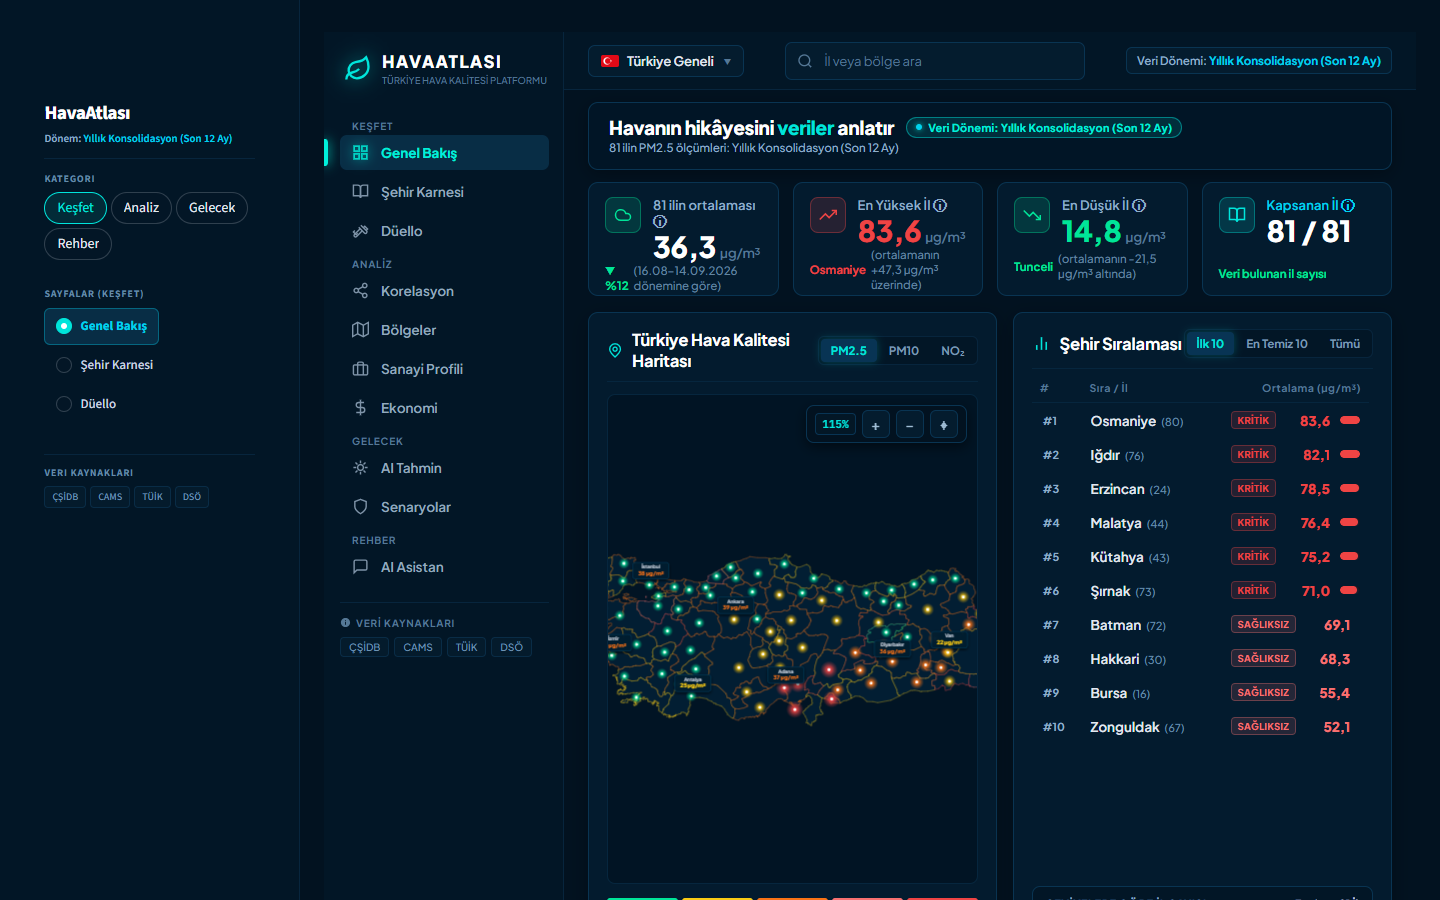
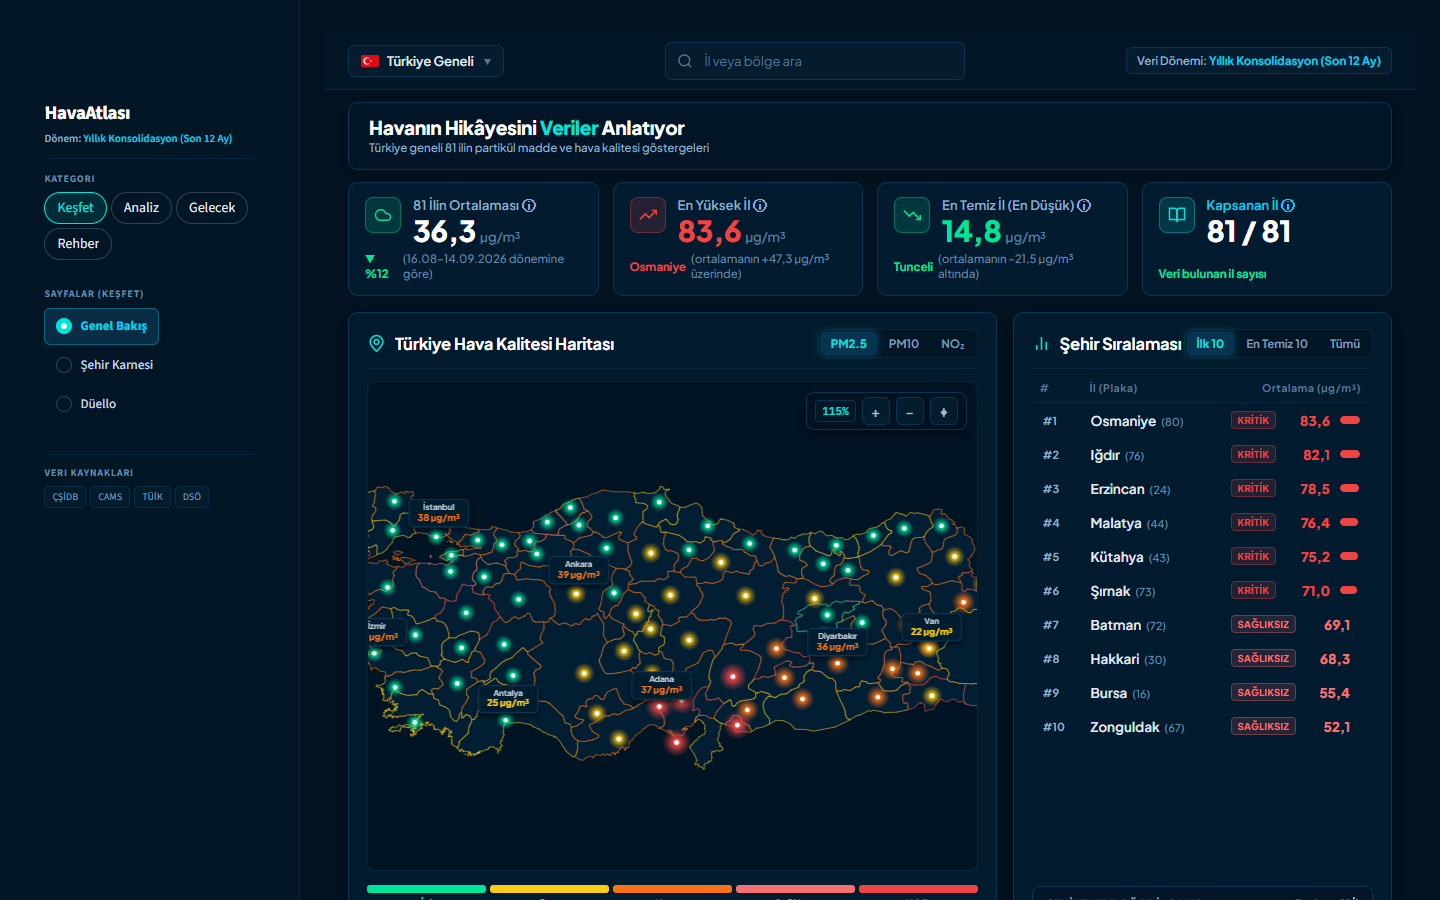
fix(duel): resolve dumbbell chart overlaps, sync summary delta, and format osb diff
- Move dumbbell chart legend to top-right to prevent x-axis title collision
- Add dynamic text positioning for closely clustered dumbbell percentile markers
- Calculate PM2.5 summary delta from displayed rounded figures for visual consistency (0,9 µg/m³)
- Format total OSB difference as integer with 'Adet' unit (+6 Adet)
- Update duel page test assertions and verification fixtures

diff --git a/app_pages/duel.py b/app_pages/duel.py
@@ -127,27 +127,30 @@ def render_duel_page(df: pd.DataFrame):
     ha_b_str = to_tr_num(ha_b, 1)
 
     # Yardımcı Fark Çipi Fonksiyonu (kazandı/kaybetti ifadesi ASLA kullanılmaz)
-    def format_diff_chip(val_1: float, val_2: float, unit_s: str, name_1: str, name_2: str) -> str:
-        diff_val = val_1 - val_2
-        denom_val = max(val_1, val_2)
+    def format_diff_chip(val_1: float, val_2: float, unit_s: str, name_1: str, name_2: str, decimals: int = 1) -> str:
+        dec_fmt = "1" if decimals == 0 else f"0.{'0'*(decimals-1)}1"
+        v1_disp = float(Decimal(f"{float(val_1):.4f}").quantize(Decimal(dec_fmt), rounding=ROUND_HALF_UP))
+        v2_disp = float(Decimal(f"{float(val_2):.4f}").quantize(Decimal(dec_fmt), rounding=ROUND_HALF_UP))
+        diff_val = round(v1_disp - v2_disp, decimals) if decimals > 0 else (v1_disp - v2_disp)
+        denom_val = max(v1_disp, v2_disp)
         pct_rel = (abs(diff_val) / denom_val * 100.0) if denom_val > 0 else 0.0
 
         if pct_rel < 5.0:
             pct_s = to_tr_num(pct_rel, 1)
             return f"<span style='background:#1e293b; color:#94a3b8; padding:3px 8px; border-radius:6px; font-size:12px; font-weight:600;'>≈ Benzer (%{pct_s})</span>"
 
-        diff_abs_s = to_tr_num(abs(diff_val), 1)
+        diff_abs_s = to_tr_num(abs(diff_val), decimals)
         pct_s = to_tr_num(pct_rel, 1)
         if diff_val > 0:
             return f"<span style='background:rgba(56, 189, 248, 0.12); color:#38bdf8; border:1px solid rgba(56, 189, 248, 0.3); padding:3px 8px; border-radius:6px; font-size:12px; font-weight:600;'>▲ {name_1} +{diff_abs_s} {unit_s} (+%{pct_s})</span>"
         else:
             return f"<span style='background:rgba(16, 185, 129, 0.12); color:#10b981; border:1px solid rgba(16, 185, 129, 0.3); padding:3px 8px; border-radius:6px; font-size:12px; font-weight:600;'>▲ {name_2} +{diff_abs_s} {unit_s} (+%{pct_s})</span>"
 
-    chip_pm = format_diff_chip(pm_a, pm_b, "µg/m³", il_a_name, il_b_name)
-    chip_sol = format_diff_chip(sol_a, sol_b, "/ 100k", il_a_name, il_b_name)
-    chip_osb = format_diff_chip(float(osb_a), float(osb_b), "OSB", il_a_name, il_b_name)
-    chip_osb_m = format_diff_chip(osb_per_m_a, osb_per_m_b, "OSB/M", il_a_name, il_b_name)
-    chip_ha = format_diff_chip(ha_a, ha_b, "ha", il_a_name, il_b_name)
+    chip_pm = format_diff_chip(pm_a, pm_b, "µg/m³", il_a_name, il_b_name, decimals=1)
+    chip_sol = format_diff_chip(sol_a, sol_b, "/ 100k", il_a_name, il_b_name, decimals=1)
+    chip_osb = format_diff_chip(float(osb_a), float(osb_b), "Adet", il_a_name, il_b_name, decimals=0)
+    chip_osb_m = format_diff_chip(osb_per_m_a, osb_per_m_b, "Adet/Milyon", il_a_name, il_b_name, decimals=1)
+    chip_ha = format_diff_chip(ha_a, ha_b, "ha", il_a_name, il_b_name, decimals=1)
 
     # HTML Tablosu (Glassmorphic lüks koyu tasarım)
     st.markdown("#### Kafa Kafaya Gösterge Karşılaştırma Tablosu")
@@ -205,14 +208,18 @@ def render_duel_page(df: pd.DataFrame):
     """, unsafe_allow_html=True)
 
     # E. VERİDEN ÜRETİLEN NÖTR ÖZET CÜMLE (Nedensellik ve yorum içermez)
-    diff_pm = pm_a - pm_b
+    pm_a_disp = float(Decimal(f"{float(pm_a):.4f}").quantize(Decimal('0.1'), rounding=ROUND_HALF_UP))
+    pm_b_disp = float(Decimal(f"{float(pm_b):.4f}").quantize(Decimal('0.1'), rounding=ROUND_HALF_UP))
+    diff_pm = round(pm_a_disp - pm_b_disp, 1)
     pm_dir = "daha düşük" if diff_pm < 0 else ("daha yüksek" if diff_pm > 0 else "eşit")
     pm_abs_str = to_tr_num(abs(diff_pm), 1)
-    denom_pm = max(pm_a, pm_b)
+    denom_pm = max(pm_a_disp, pm_b_disp)
     pm_rel = (abs(diff_pm) / denom_pm * 100.0) if denom_pm > 0 else 0.0
     pm_rel_note = "benzer düzeyde" if pm_rel < 5.0 else f"%{to_tr_num(pm_rel, 1)} farkla"
 
-    diff_sol = sol_a - sol_b
+    sol_a_disp = float(Decimal(f"{float(sol_a):.4f}").quantize(Decimal('0.1'), rounding=ROUND_HALF_UP))
+    sol_b_disp = float(Decimal(f"{float(sol_b):.4f}").quantize(Decimal('0.1'), rounding=ROUND_HALF_UP))
+    diff_sol = round(sol_a_disp - sol_b_disp, 1)
     sol_dir = "daha düşük" if diff_sol < 0 else ("daha yüksek" if diff_sol > 0 else "eşit")
     sol_abs_str = to_tr_num(abs(diff_sol), 1)
 

diff --git a/visualization/distribution_charts.py b/visualization/distribution_charts.py
@@ -324,6 +324,21 @@ def create_duel_dumbbell_chart(
             hoverinfo="none"
         ))
 
+    # Dinamik metin pozisyonları (birbirine çok yakın yüzdelerde üst üste binmeyi önler)
+    pos_a = []
+    pos_b = []
+    for va, vb in zip(vals_a, vals_b):
+        if abs(va - vb) < 8:
+            if va <= vb:
+                pos_a.append("middle left")
+                pos_b.append("middle right")
+            else:
+                pos_a.append("middle right")
+                pos_b.append("middle left")
+        else:
+            pos_a.append("top center")
+            pos_b.append("bottom center")
+
     # Şehir A noktaları (Mavi)
     fig.add_trace(go.Scatter(
         x=vals_a,
@@ -332,7 +347,7 @@ def create_duel_dumbbell_chart(
         name=city_a["il"],
         marker=dict(color="#38bdf8", size=13, line=dict(color="#ffffff", width=1.5)),
         text=[f"%{va:.0f}" for va in vals_a],
-        textposition="top center",
+        textposition=pos_a,
         textfont=dict(color="#38bdf8", size=10),
         customdata=raw_a,
         hovertemplate=f"<b>{city_a['il']}</b><br>%{{y}}<br>Yüzdelik Konum: %{{x:.1f}} / 100<br>Ham Değer: %{{customdata}}<extra></extra>"
@@ -346,7 +361,7 @@ def create_duel_dumbbell_chart(
         name=city_b["il"],
         marker=dict(color="#10b981", size=13, line=dict(color="#ffffff", width=1.5)),
         text=[f"%{vb:.0f}" for vb in vals_b],
-        textposition="bottom center",
+        textposition=pos_b,
         textfont=dict(color="#10b981", size=10),
         customdata=raw_b,
         hovertemplate=f"<b>{city_b['il']}</b><br>%{{y}}<br>Yüzdelik Konum: %{{x:.1f}} / 100<br>Ham Değer: %{{customdata}}<extra></extra>"
@@ -358,13 +373,14 @@ def create_duel_dumbbell_chart(
             font=dict(size=13, color="#f8fafc")
         ),
         height=320,
-        margin=dict(t=40, l=30, r=30, b=30),
+        margin=dict(t=50, l=30, r=30, b=45),
         xaxis=dict(
             title=dict(
                 text="81 İl İçindeki Yüzdelik Sıralama (Percentile)",
-                font=dict(color="#94a3b8", size=11)
+                font=dict(color="#94a3b8", size=11),
+                standoff=10
             ),
-            range=[-5, 105],
+            range=[-8, 108],
             gridcolor="#1e293b",
             tickfont=dict(color="#94a3b8", size=10),
             zeroline=False
@@ -376,9 +392,9 @@ def create_duel_dumbbell_chart(
         legend=dict(
             orientation="h",
             yanchor="bottom",
-            y=-0.28,
-            xanchor="center",
-            x=0.5,
+            y=1.04,
+            xanchor="right",
+            x=1.0,
             font=dict(color="#f8fafc", size=11)
         ),
         paper_bgcolor="rgba(0,0,0,0)",

diff --git a/tests/test_duel_page.py b/tests/test_duel_page.py
@@ -25,6 +25,14 @@ def test_duel_dumbbell_chart_percentile():
     assert "İstanbul" in names
     assert "Ankara" in names
 
+    # Lejant üst kısımda olmalı (x ekseniyle çakışma olmamalı)
+    assert fig.layout.legend.y >= 1.0
+    assert fig.layout.legend.xanchor == "right"
+
+    # Dinamik etiket pozisyonları atanmış olmalı
+    assert isinstance(marker_traces[0].textposition, (list, tuple))
+    assert isinstance(marker_traces[1].textposition, (list, tuple))
+
 
 def test_duel_single_metric_comparison_bars():
     fig = create_single_metric_comparison_bar(
@@ -71,14 +79,19 @@ def test_duel_page_istanbul_ankara_exact_values():
     assert "2.424,7 ha" in all_markdown
     assert "9.173,5 ha" in all_markdown
 
-    # 2. Metin kalitesi kontrolü (Sayısal NaN, Inf, None kelime olarak bulunmamalı)
+    # 2. Fark çipleri ve matematiksel tutarlılık
+    assert "+6 Adet" in all_markdown
+    assert "0,9 µg/m³" in all_markdown
+    assert "+6,0 OSB" not in all_markdown
+
+    # 3. Metin kalitesi kontrolü (Sayısal NaN, Inf, None kelime olarak bulunmamalı)
     import re
     assert not re.search(r'\b(nan|none|inf)\b', all_markdown, re.IGNORECASE)
     assert "kazandı" not in all_markdown.lower()
     assert "kaybetti" not in all_markdown.lower()
     assert "tüiklerin" not in all_markdown.lower()
 
-    # 3. Dipnotlar
+    # 4. Dipnotlar
     assert "CAMS" in all_markdown
     assert "OSBÜK" in all_markdown
 
